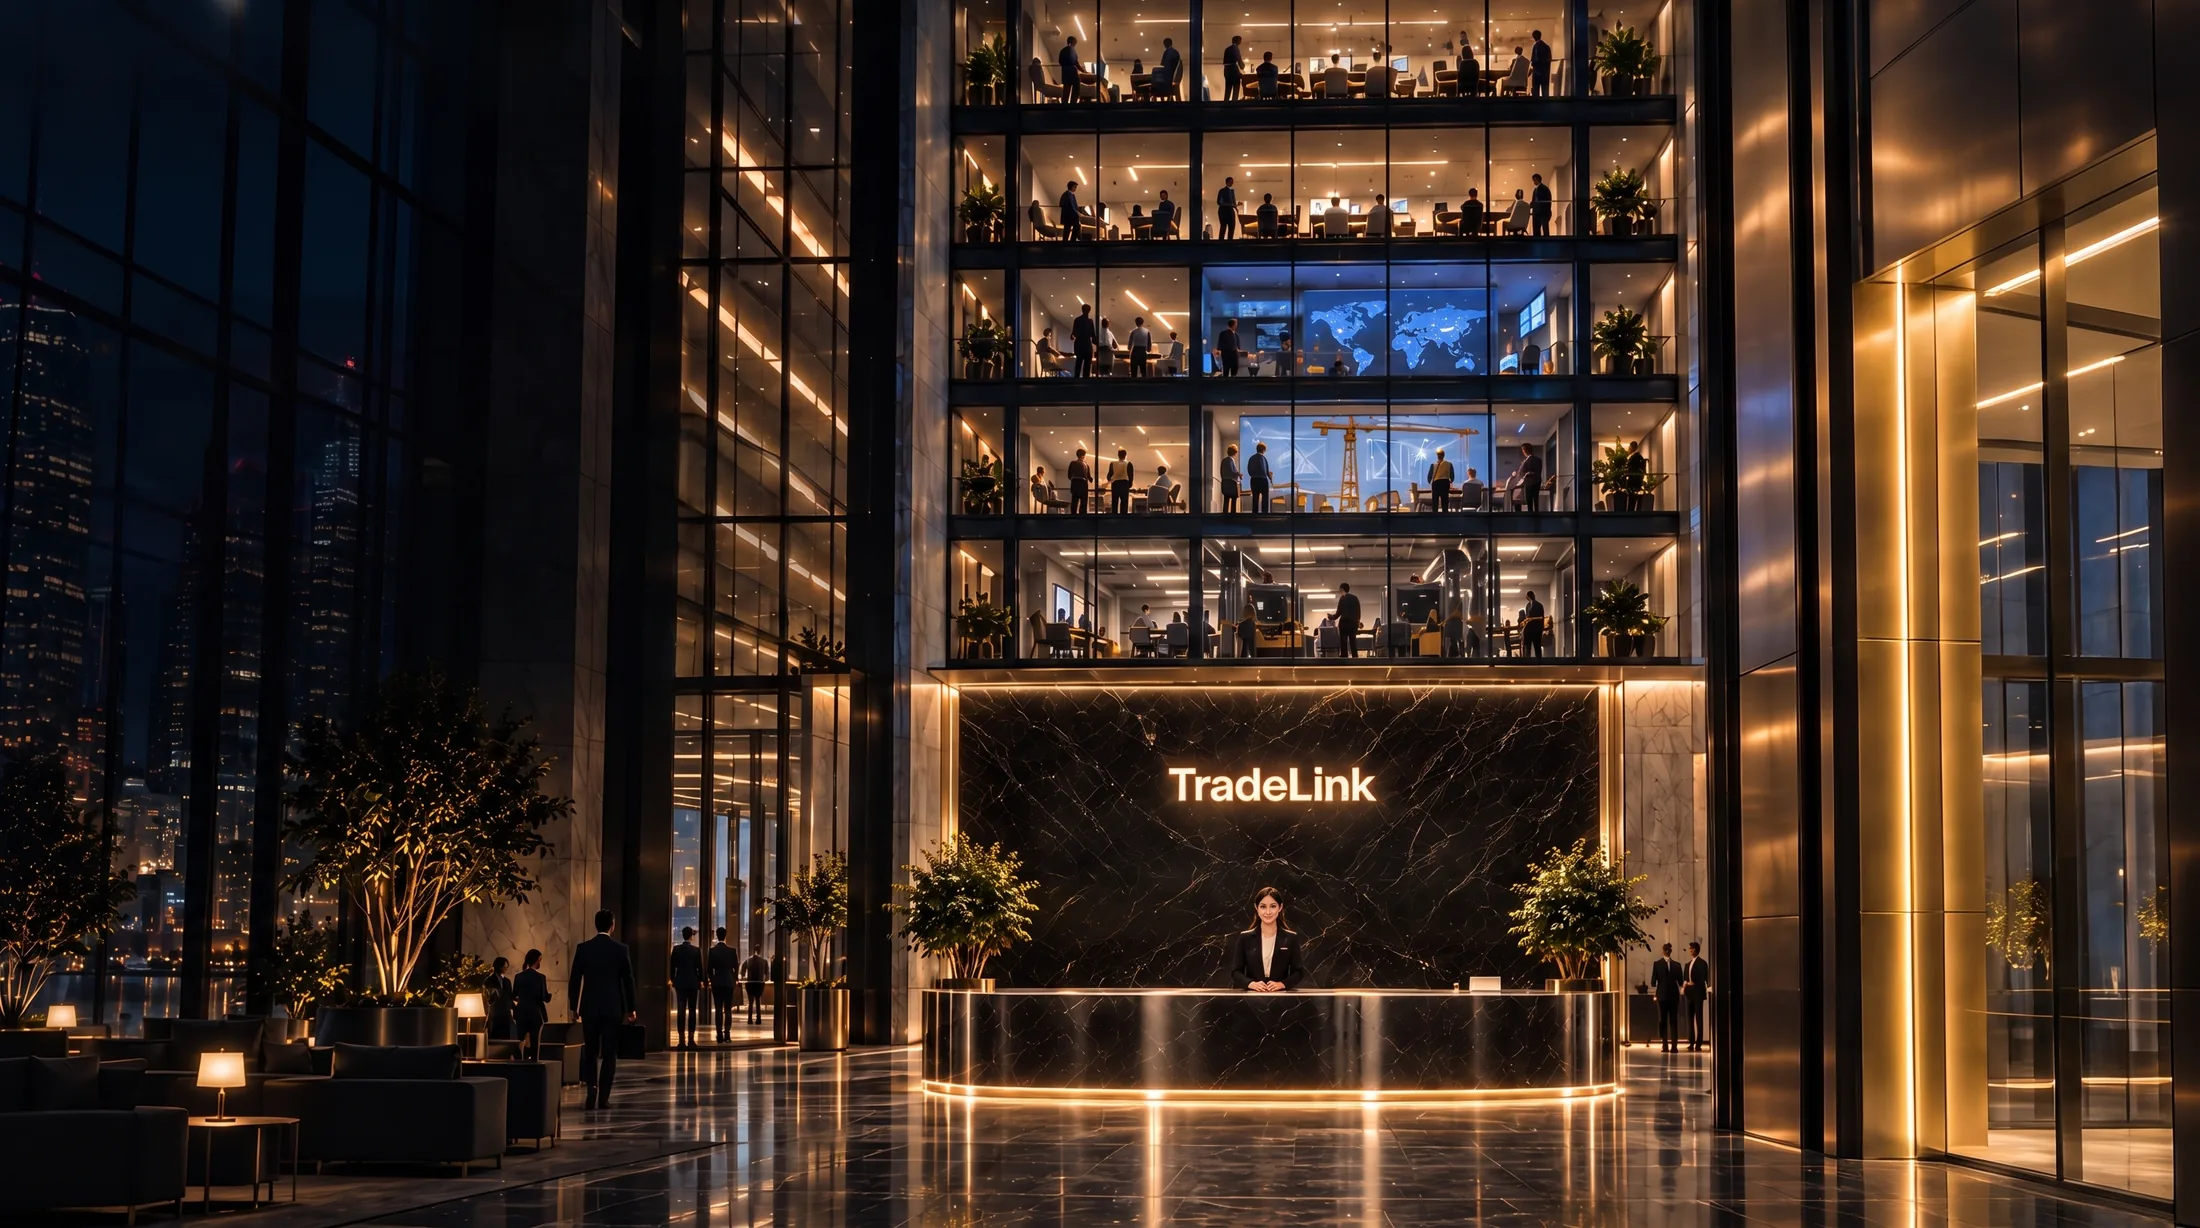
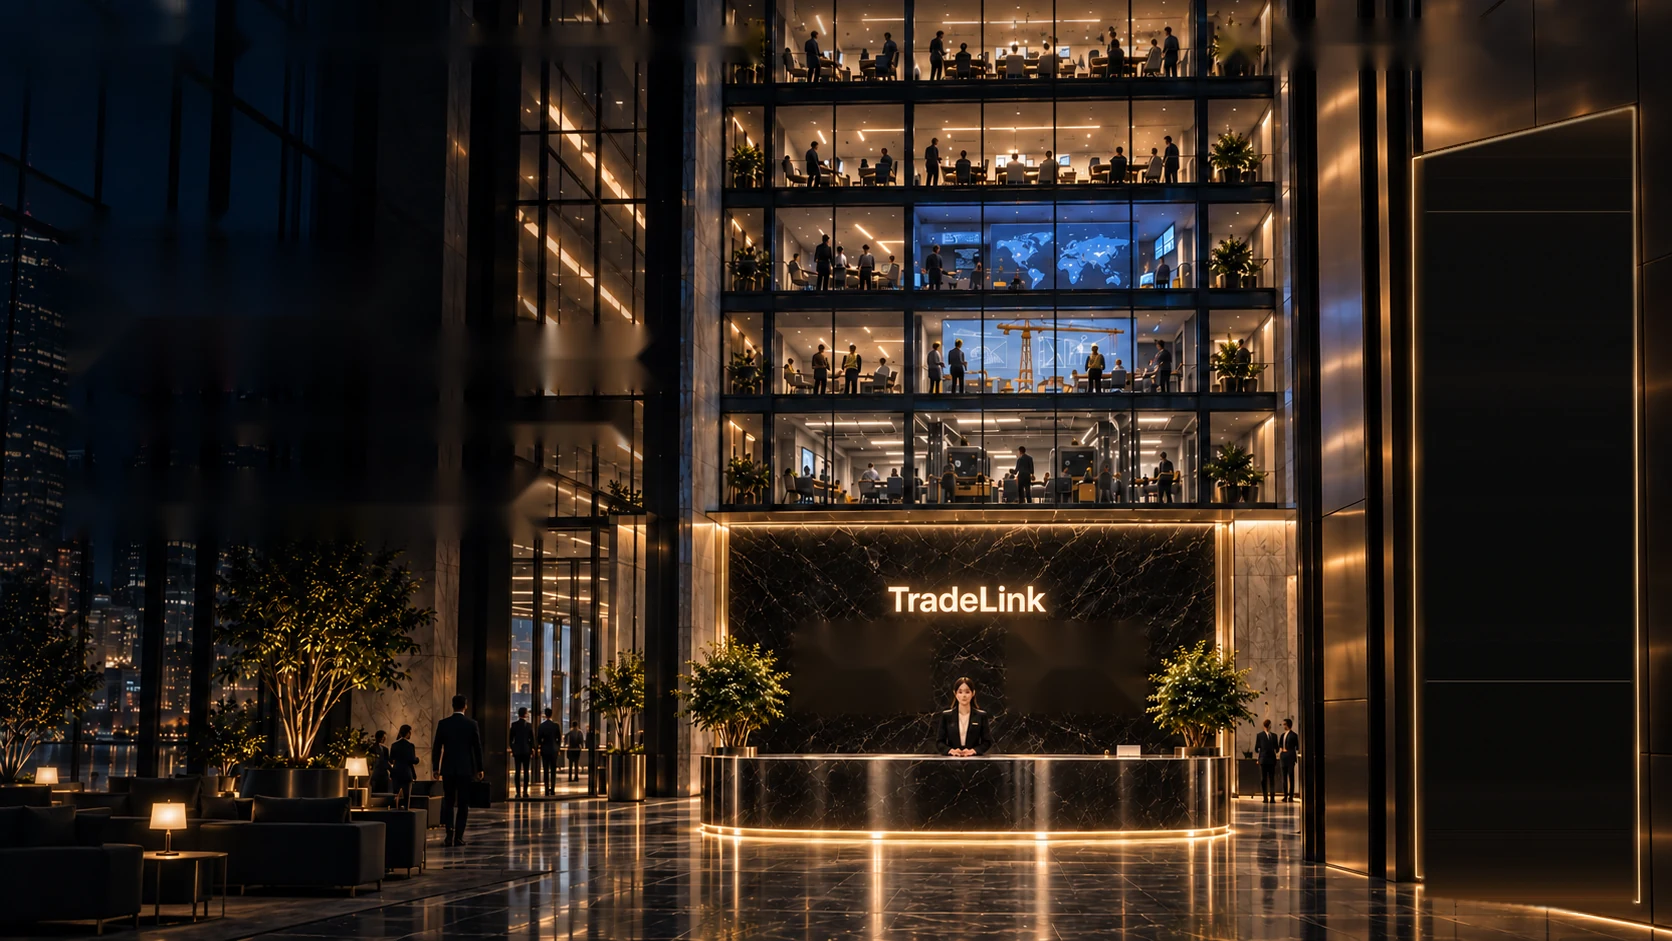
fix: homepage background is the approved frame with baked UI removed
Replace the re-rendered atrium with a plate derived from the approved
reference itself: nav, hero copy, buttons and the four wall panels are
inpainted out, the elevator interior is blanked and its perspective gold
frame stays in the photo. Elevator and wall panels are anchored to the
photo box so they sit on the frame at any aspect ratio; the homepage
panel draws no frame of its own. Reception elevator uses the same
photo-box coordinates.

Claude-Session: https://claude.ai/code/session_01BJ3sT4d6a9RkYEtFqCs7VE

diff --git a/site/index.html b/site/index.html
@@ -78,7 +78,7 @@
     <section class="atrium" id="atrium" data-scene="atrium">
       <div class="atrium__media" data-depth="1">
         <img src="homepage-master.webp"
-             width="2200" height="1228" fetchpriority="high"
+             width="1672" height="941" fetchpriority="high"
              alt="Atrium TradeLinku — prosklená patra budovy nad recepcí, večerní panorama města.">
       </div>
 
@@ -93,33 +93,9 @@
       <!-- Čtyři panely na stěně recepce, stejné jako v detailu. Kotvené k boxu
            fotky (cover), takže sedí k logu a recepční při každém poměru stran.
            Vedou na recepci; pro klávesnici a čtečky stačí hlavní CTA. -->
-      <div class="atrium__wall" aria-hidden="true">
-        <a class="wall-choice" href="recepce.html" data-transition tabindex="-1" style="--x:48.2%;--y:66.4%">
-          <svg viewBox="0 0 24 24" fill="none" stroke="currentColor" stroke-width="1.6" stroke-linecap="round" stroke-linejoin="round"><circle cx="9" cy="8" r="3.2"/><path d="M2.8 19.5c0-3.3 2.8-5.5 6.2-5.5s6.2 2.2 6.2 5.5"/><path d="M16.5 5.4a3 3 0 0 1 0 5.4"/><path d="M18 14.4c2 .8 3.2 2.5 3.2 5.1"/></svg>Hledám zaměstnance</a>
-        <a class="wall-choice" href="recepce.html" data-transition tabindex="-1" style="--x:60.7%;--y:66.4%">
-          <svg viewBox="0 0 24 24" fill="none" stroke="currentColor" stroke-width="1.6" stroke-linecap="round" stroke-linejoin="round"><rect x="2.8" y="7.2" width="18.4" height="12.6" rx="2"/><path d="M9 7.2V5.6a1.8 1.8 0 0 1 1.8-1.8h2.4A1.8 1.8 0 0 1 15 5.6v1.6M2.8 12.4h18.4"/></svg>Hledám zakázky</a>
-        <a class="wall-choice" href="recepce.html" data-transition tabindex="-1" style="--x:48.2%;--y:71.2%">
-          <svg viewBox="0 0 24 24" fill="none" stroke="currentColor" stroke-width="1.6" stroke-linecap="round" stroke-linejoin="round"><circle cx="12" cy="8" r="3.4"/><path d="M5 19.6c0-3.5 3-5.8 7-5.8s7 2.3 7 5.8"/></svg>Hledám práci</a>
-        <a class="wall-choice" href="recepce.html" data-transition tabindex="-1" style="--x:60.7%;--y:71.2%">
-          <svg viewBox="0 0 24 24" fill="none" stroke="currentColor" stroke-width="1.6" stroke-linecap="round" stroke-linejoin="round"><path d="M5.6 3.8h9.2l4.6 4.6v11.8a1.8 1.8 0 0 1-1.8 1.8H5.6a1.8 1.8 0 0 1-1.8-1.8V5.6a1.8 1.8 0 0 1 1.8-1.8z"/><path d="M8 12h8M8 16h5"/></svg>Chci zadat zakázku</a>
-      </div>
-
-      <div class="atrium__content">
-        <div class="atrium__copy" data-depth="2">
-          <p class="atrium__kicker">Silnější zítřek</p>
-          <h1>TradeLink<span class="atrium__claim">Místo, kde se propojuje byznys.</span></h1>
-          <p class="atrium__text">
-            Propojte firmy, pracovníky a příležitosti na jednom místě.
-          </p>
-          <div class="actions">
-            <a class="btn atrium__enter" href="recepce.html" data-transition>Prozkoumat TradeLink <span aria-hidden="true">→</span></a>
-            <a class="btn btn--ghost atrium__secondary" href="registrace.html">Přidat příležitost</a>
-          </div>
-
-        </div>
-      </div>
-
-      <!-- Výtah — desktop/tablet: skutečný panel s klikatelnými patry -->
+      <!-- Výtah je kotvený k boxu fotky: jeho rám je součástí schváleného snímku
+           (perspektivní zlatý rám ve sloupu), HTML dodává jen ovládání uvnitř. -->
+      <div class="photo-box photo-box--atrium">
       <aside class="elevator" aria-label="Výtah — patra budovy">
         <div class="floors">
           <p class="floors__head">Zvolte patro
@@ -140,6 +116,35 @@
           </div>
         </div>
       </aside>
+      </div>
+
+      <div class="atrium__wall photo-box photo-box--atrium" aria-hidden="true">
+        <a class="wall-choice" href="recepce.html" data-transition tabindex="-1" style="--x:47.7%;--y:66.5%">
+          <svg viewBox="0 0 24 24" fill="none" stroke="currentColor" stroke-width="1.6" stroke-linecap="round" stroke-linejoin="round"><circle cx="9" cy="8" r="3.2"/><path d="M2.8 19.5c0-3.3 2.8-5.5 6.2-5.5s6.2 2.2 6.2 5.5"/><path d="M16.5 5.4a3 3 0 0 1 0 5.4"/><path d="M18 14.4c2 .8 3.2 2.5 3.2 5.1"/></svg>Hledám zaměstnance</a>
+        <a class="wall-choice" href="recepce.html" data-transition tabindex="-1" style="--x:60.4%;--y:66.5%">
+          <svg viewBox="0 0 24 24" fill="none" stroke="currentColor" stroke-width="1.6" stroke-linecap="round" stroke-linejoin="round"><rect x="2.8" y="7.2" width="18.4" height="12.6" rx="2"/><path d="M9 7.2V5.6a1.8 1.8 0 0 1 1.8-1.8h2.4A1.8 1.8 0 0 1 15 5.6v1.6M2.8 12.4h18.4"/></svg>Hledám zakázky</a>
+        <a class="wall-choice" href="recepce.html" data-transition tabindex="-1" style="--x:47.7%;--y:71.2%">
+          <svg viewBox="0 0 24 24" fill="none" stroke="currentColor" stroke-width="1.6" stroke-linecap="round" stroke-linejoin="round"><circle cx="12" cy="8" r="3.4"/><path d="M5 19.6c0-3.5 3-5.8 7-5.8s7 2.3 7 5.8"/></svg>Hledám práci</a>
+        <a class="wall-choice" href="recepce.html" data-transition tabindex="-1" style="--x:60.4%;--y:71.2%">
+          <svg viewBox="0 0 24 24" fill="none" stroke="currentColor" stroke-width="1.6" stroke-linecap="round" stroke-linejoin="round"><path d="M5.6 3.8h9.2l4.6 4.6v11.8a1.8 1.8 0 0 1-1.8 1.8H5.6a1.8 1.8 0 0 1-1.8-1.8V5.6a1.8 1.8 0 0 1 1.8-1.8z"/><path d="M8 12h8M8 16h5"/></svg>Chci zadat zakázku</a>
+      </div>
+
+      <div class="atrium__content">
+        <div class="atrium__copy" data-depth="2">
+          <p class="atrium__kicker">Silnější zítřek</p>
+          <h1>TradeLink<span class="atrium__claim">Místo, kde se propojuje byznys.</span></h1>
+          <p class="atrium__text">
+            Propojte firmy, pracovníky a příležitosti na jednom místě.
+          </p>
+          <div class="actions">
+            <a class="btn atrium__enter" href="recepce.html" data-transition>Prozkoumat TradeLink <span aria-hidden="true">→</span></a>
+            <a class="btn btn--ghost atrium__secondary" href="registrace.html">Přidat příležitost</a>
+          </div>
+
+        </div>
+      </div>
+
+      <!-- Výtah — desktop/tablet: skutečný panel s klikatelnými patry -->
 
       <!-- Výtah — mobil: kompaktní tlačítko otevírá bottom sheet se stejnými patry -->
       <button class="floors-toggle" type="button" aria-haspopup="dialog" aria-controls="floors-sheet" aria-expanded="false">

diff --git a/site/recepce.html b/site/recepce.html
@@ -80,6 +80,28 @@
              alt="Recepce TradeLinku — recepční za mramorovým pultem, svítící logo TradeLink na stěně z černého mramoru se zlatými žilkami.">
       </div>
       <a class="reception__logo" href="./" aria-label="TradeLink — hlavní stránka"></a>
+      <div class="photo-box photo-box--reception">
+      <aside class="elevator" aria-label="Výtah — patra budovy">
+        <div class="floors">
+          <p class="floors__head">Zvolte patro
+            <svg viewBox="0 0 24 24" fill="none" stroke="currentColor" stroke-width="2" stroke-linecap="round" stroke-linejoin="round" aria-hidden="true"><path d="M12 5v14M6 13l6 6 6-6"/></svg>
+          </p>
+          <div class="floors__list">
+            <a class="floor" href="recepce.html" aria-label="Patro 12 — IT"><span class="floor__num">12</span> IT</a>
+            <a class="floor" href="recepce.html" aria-label="Patro 10 — Administrativa"><span class="floor__num">10</span> Administrativa</a>
+            <a class="floor" href="recepce.html" aria-label="Patro 08 — Gastro"><span class="floor__num">08</span> Gastro</a>
+            <a class="floor" href="recepce.html" aria-label="Patro 06 — Logistika"><span class="floor__num">06</span> Logistika</a>
+            <a class="floor" href="recepce.html" aria-label="Patro 04 — Stavebnictví"><span class="floor__num">04</span> Stavebnictví</a>
+            <a class="floor" href="recepce.html" aria-label="Patro 02 — Výroba"><span class="floor__num">02</span> Výroba</a>
+            <a class="floor is-here" href="recepce.html" aria-label="Recepce — jste tady" aria-current="page"><span class="floor__num">L</span> Recepce</a>
+          </div>
+          <div class="floors__tagline">
+            <p>Stejná budova.<br>Lepší<br>zítřek.</p>
+            <small>TradeLink<br>Zal. 2026<br>Příležitosti bez hranic<br>Skutečný dopad</small>
+          </div>
+        </div>
+      </aside>
+      </div>
 
       <div class="reception__intro" data-depth="2">
         <p class="reception__kicker">TradeLink · Patro L</p>
@@ -156,26 +178,6 @@
         </div>
       </div>
 
-      <aside class="elevator" aria-label="Výtah — patra budovy">
-        <div class="floors">
-          <p class="floors__head">Zvolte patro
-            <svg viewBox="0 0 24 24" fill="none" stroke="currentColor" stroke-width="2" stroke-linecap="round" stroke-linejoin="round" aria-hidden="true"><path d="M12 5v14M6 13l6 6 6-6"/></svg>
-          </p>
-          <div class="floors__list">
-            <a class="floor" href="recepce.html" aria-label="Patro 12 — IT"><span class="floor__num">12</span> IT</a>
-            <a class="floor" href="recepce.html" aria-label="Patro 10 — Administrativa"><span class="floor__num">10</span> Administrativa</a>
-            <a class="floor" href="recepce.html" aria-label="Patro 08 — Gastro"><span class="floor__num">08</span> Gastro</a>
-            <a class="floor" href="recepce.html" aria-label="Patro 06 — Logistika"><span class="floor__num">06</span> Logistika</a>
-            <a class="floor" href="recepce.html" aria-label="Patro 04 — Stavebnictví"><span class="floor__num">04</span> Stavebnictví</a>
-            <a class="floor" href="recepce.html" aria-label="Patro 02 — Výroba"><span class="floor__num">02</span> Výroba</a>
-            <a class="floor is-here" href="recepce.html" aria-label="Recepce — jste tady" aria-current="page"><span class="floor__num">L</span> Recepce</a>
-          </div>
-          <div class="floors__tagline">
-            <p>Stejná budova.<br>Lepší<br>zítřek.</p>
-            <small>TradeLink<br>Zal. 2026<br>Příležitosti bez hranic<br>Skutečný dopad</small>
-          </div>
-        </div>
-      </aside>
     </section>
   </main>
 

diff --git a/site/homepage.css b/site/homepage.css
@@ -26,8 +26,8 @@
 .atrium::before{
   content:"";position:absolute;inset:0;z-index:-2;pointer-events:none;
   background:
-    linear-gradient(90deg,rgba(2,4,7,.84) 0%,rgba(2,4,7,.62) 24%,rgba(2,4,7,.22) 48%,rgba(2,4,7,.04) 66%,rgba(2,4,7,.26) 100%),
-    linear-gradient(180deg,rgba(2,4,7,.3) 0%,rgba(2,4,7,.04) 26%,rgba(2,4,7,.06) 62%,rgba(2,4,7,.78) 100%);
+    linear-gradient(90deg,rgba(2,4,7,.45) 0%,rgba(2,4,7,.28) 24%,rgba(2,4,7,.06) 48%,rgba(2,4,7,0) 66%,rgba(2,4,7,0) 100%),
+    linear-gradient(180deg,rgba(2,4,7,.12) 0%,rgba(2,4,7,0) 26%,rgba(2,4,7,0) 62%,rgba(2,4,7,.2) 100%);
 }
 .atrium::after{
   content:"";position:absolute;inset:0;z-index:-1;pointer-events:none;
@@ -75,17 +75,15 @@
 /* ---------- panely na stěně vzdálené recepce ----------
    .atrium__wall má přesně box fotky vykreslené jako object-fit:cover
    (56 % vodorovně, střed svisle) — proto sedí k logu a recepční. */
-.atrium__wall{
-  display:none;
-  position:absolute;z-index:1;
-  left:56%;top:50%;
-  width:max(100%,179.15svh);aspect-ratio:2200/1228;
-  transform:translate(-56%,-50%);
-  pointer-events:none;
+.atrium__wall{display:none}
+/* rám výtahu je součástí schválené fotky — HTML panel nesmí kreslit vlastní */
+.atrium .elevator .floors{
+  background:none;border:0;box-shadow:none;backdrop-filter:none;border-radius:0;
+  padding-top:clamp(34px,7svh,64px);
 }
 .wall-choice{
   position:absolute;left:var(--x);top:var(--y);
-  width:7.3%;height:3.7%;
+  width:7.6%;height:3.8%;
   display:flex;align-items:center;gap:.45em;padding:0 .7em;
   box-sizing:border-box;
   font-size:clamp(5px,.52vw,9px);font-weight:500;letter-spacing:.01em;line-height:1;
@@ -99,6 +97,7 @@
 .wall-choice svg{width:1.4em;height:1.4em;flex:none;color:var(--accent)}
 .wall-choice:hover{background:rgba(20,14,6,.7);box-shadow:0 0 12px rgba(230,201,143,.7)}
 @media (min-width:900px){ .atrium__wall{display:block} }
+@media (max-width:899.98px){ .photo-box--atrium:not(.atrium__wall){display:none} }
 
 /* ---------- přechod do recepce ----------
    Kamera „přijede" k pultu: fotka atria se přiblíží k recepci, kopie

diff --git a/site/nav-hud.css b/site/nav-hud.css
@@ -152,17 +152,25 @@
 .elevator{
   display:none;
   position:absolute;
-  right:clamp(20px,2.5vw,48px);
-  top:15svh;
+  left:85.2%;top:11.5%;width:12.4%;height:84.5%;
   z-index:3;
-  height:82svh;
-  width:clamp(196px,13.2vw,236px);
+  pointer-events:auto;
 }
+/* box se stejnou geometrií jako fotka vykreslená přes object-fit:cover —
+   všechno uvnitř sedí na fotku při libovolném poměru stran */
+.photo-box{
+  position:absolute;z-index:1;pointer-events:none;
+  left:var(--ox,50%);top:var(--oy,50%);
+  width:max(100%,calc(100svh * var(--ar,1.7768)));aspect-ratio:var(--ar,1.7768);
+  transform:translate(calc(-1 * var(--ox,50%)),calc(-1 * var(--oy,50%)));
+}
+.photo-box--atrium{--ox:56%;--oy:50%;--ar:1.7768}
+.photo-box--reception{--ox:50%;--oy:45%;--ar:1.7915}
 .elevator .floors{
   position:relative;
   display:flex;flex-direction:column;
   height:100%;
-  margin-top:0;padding:26px 22px 22px;
+  margin-top:0;padding:clamp(16px,3.2svh,30px) clamp(12px,1.2vw,22px) clamp(14px,2.6svh,24px);
   width:100%;
   border-radius:4px;
   border:1px solid rgba(241,220,174,.85);

diff --git a/CLAUDE_HANDOFF.md b/CLAUDE_HANDOFF.md
@@ -731,6 +731,22 @@ klidně předělej. `hidden` tam patří schválně: **dokud není co ukázat, k
 
 ## Last Session
 
+**11. 9. 2026 — homepage na schválený snímek (přesná kompozice), bez kreditů.**
+- **Chybějící podklad:** čistá verze schváleného snímku (`Downloads/2eb0bb2c-….png`, 1672×941)
+  bez vypálené navigace, hero textu, výtahového panelu a čtyř panelů na stěně neexistuje.
+  Dřívější `homepage-master.webp` byl Higgsfield re-render — jiná kompozice (užší pult, jiné
+  rostliny, jiný pravý sloup). Nový `homepage-master.webp` je **odvozený přímo ze schváleného
+  snímku**: vypálená navigace, hero text s tlačítky a čtyři panely na stěně jsou vyretušované
+  (OpenCV inpaint), vnitřek výtahového panelu je vyplněný vlastní tmavou barvou a **perspektivní
+  zlatý rám panelu zůstal ve fotce**. Architektura je pixelově shodná s referencí. V levé
+  fasádě za hero textem jsou po retuši měkké šmouhy — schované pod textem a závojem.
+- Výtah i čtyři panely na stěně jsou v `.photo-box` (box fotky jako object-fit:cover), takže
+  sedí na fotku při každém poměru stran. Na homepage HTML panel nemá vlastní rám ani pozadí —
+  rám je ve fotce; na recepci má stejné souřadnice a svůj HTML rám (její fotka rám nemá).
+  Pod 900 px se na homepage box výtahu skrývá (mobil má tlačítko „Patra").
+- Fotka je 1672×941 (nativní rozlišení reference), atributy `width/height` opravené.
+- Higgsfield ani video přechodu se nepoužily.
+
 **11. 9. 2026 — shoda obou stránek s návrhy (statický vzhled), animace pozastavená.**
 - **Příčina posunu výtahu o 80 px na recepci:** homepage má nav `position:absolute` přes scénu,
   recepce ji měla v toku, takže scéna začínala o výšku lišty níž a přetékala. Teď má recepce
